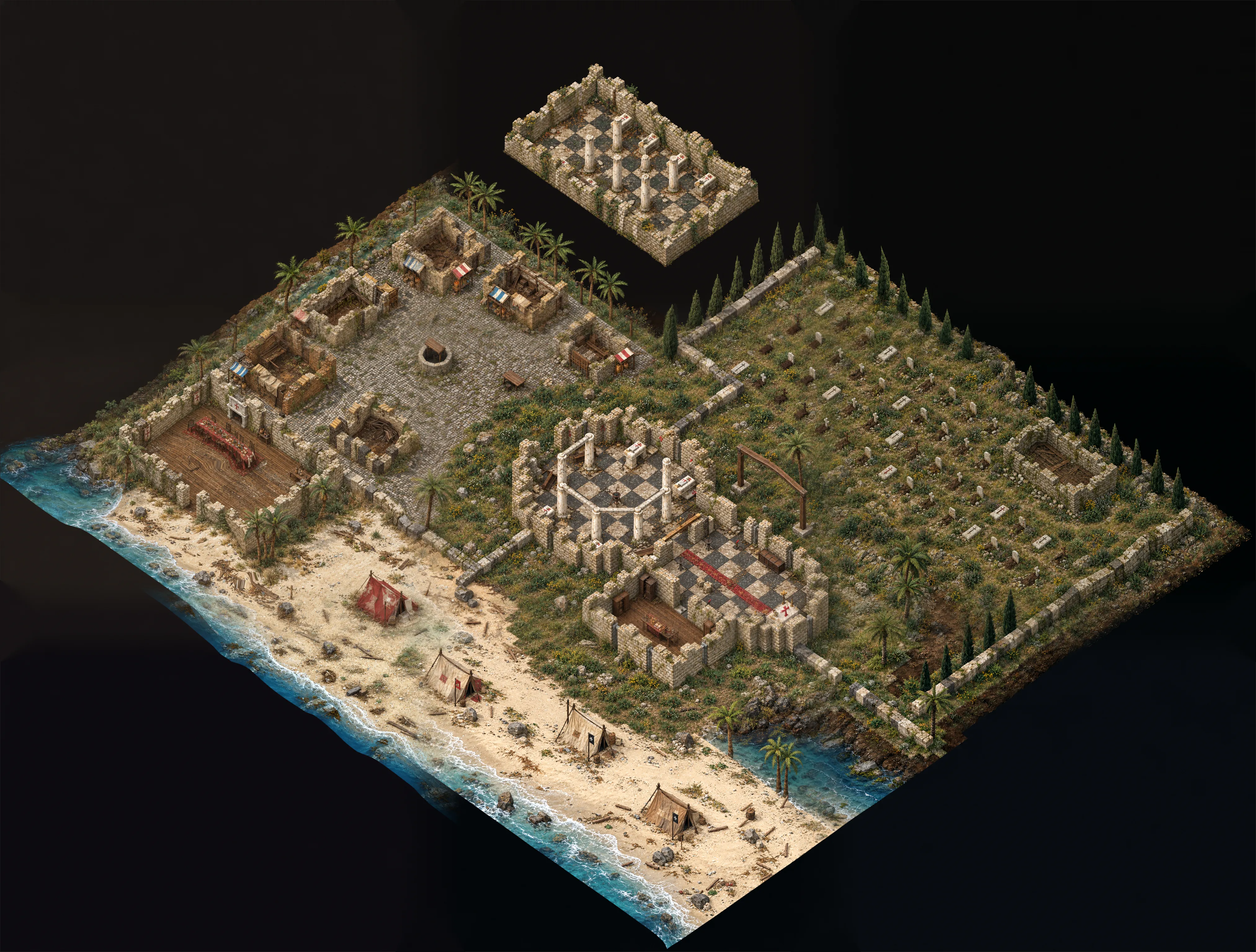
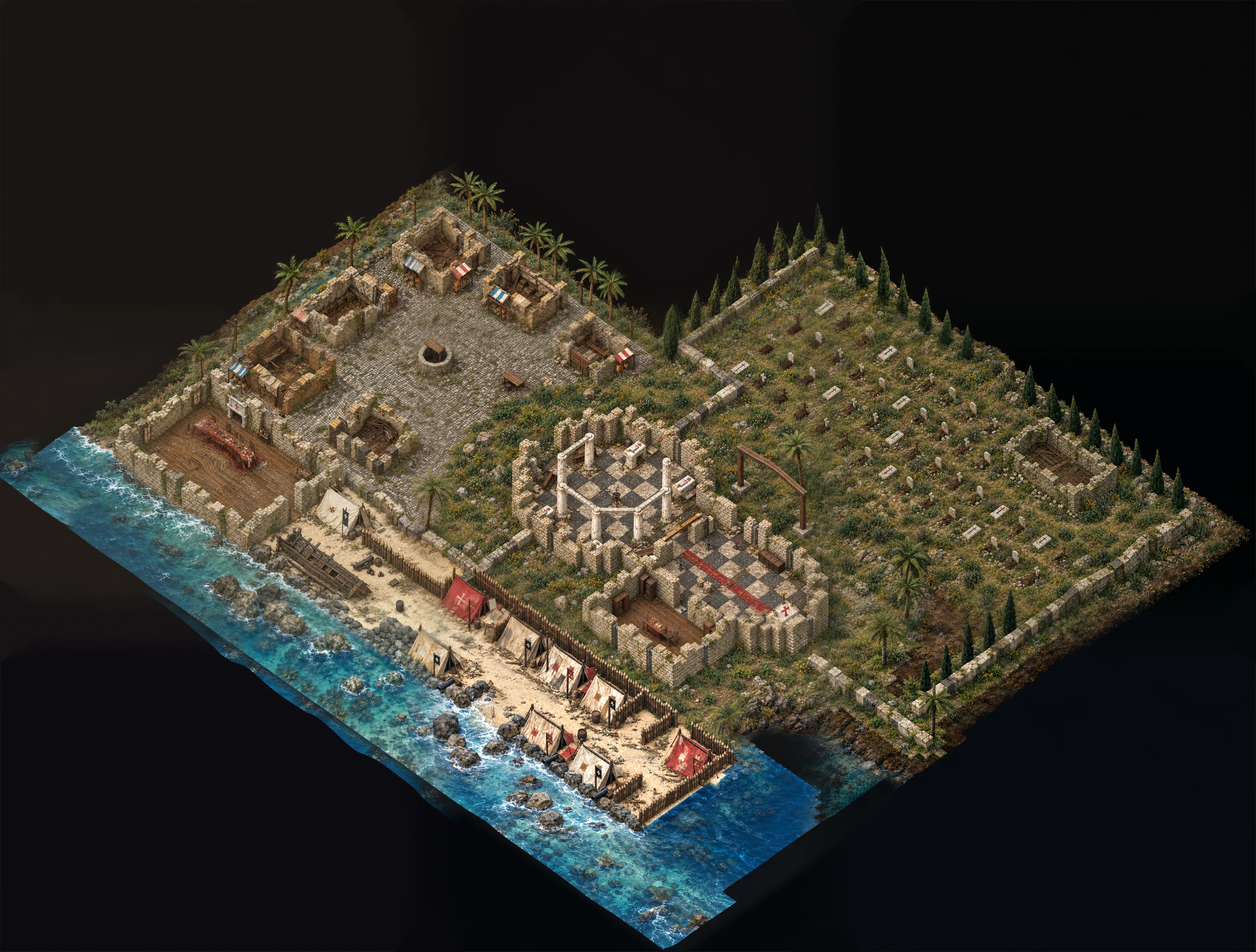
Templari: il dipinto dell'isola rifatto dopo spiaggia e catacombe (#426)

diff --git a/apps/client/src/templari/dipinto.ts b/apps/client/src/templari/dipinto.ts
@@ -43,11 +43,10 @@ const LUNA = new THREE.Vector3(-30, 50, -20).normalize(); // da dove viene la lu
 // luci con l'ombra: al massimo 24, un tassello dell'atlas ciascuna (8 × 3); le luci puntiformi della scena al massimo 24 (oltre: senza ombre)
 const MAX_LUCI = 24, MAX_PUNTI = 24, PX_OTT = LEGGERO ? 128 : 256, COL_ATLAS = 8, RIGHE_ATLAS = MAX_LUCI / COL_ATLAS;
 // pezzi che si muovono, spariscono o stanno fuori: restano coi loro colori
-/** Zone (x0, z0, x1, z1 in metri) dove l'isola è cambiata dopo il dipinto: lì restano i colori dei blocchi finché non lo si rifà. §12b punto 2
- *  (18 ott 2026): l'accampamento stretto, la riva sotto la taverna, il cancello del cimitero spostato; punto 3: la cripta, che era nell'angolo
- *  nord-ovest, ora sta nel piano di sotto. Il dipinto si rifà dopo il punto 3. */
-const DA_RIFARE: [number, number, number, number][] = [[24, 59, 95, 84], [6, 73.5, 24, 84], [72, 42.5, 83, 46], [0, 0, 30, 18]]; // e la cripta di prima (§12b punto 3: ora è sotto)
-const FUORI = new Set(['assi', 'campana', 'campana_a_terra', 'calice', 'nave', 'mare', 'bandiera_nera', 'aste', 'nebbia', 'rogo', 'fiamme_bracieri', 'fiammelle', 'stendardi']);
+/** Zone (x0, z0, x1, z1 in metri, al massimo 4) dove l'isola è cambiata dopo il dipinto: lì restano i colori dei blocchi finché non lo si rifà.
+ *  Vuota dal 19 ott 2026: il dipinto è rifatto dopo la spiaggia e le catacombe (§12b punti 2 e 3). */
+const DA_RIFARE: [number, number, number, number][] = [];
+const FUORI = new Set(['assi', 'campana', 'campana_a_terra', 'calice', 'nave', 'mare', 'bandiera_nera', 'aste', 'nebbia', 'rogo', 'fiamme_bracieri', 'fiammelle', 'stendardi', 'bocche_grate']);
 
 const PARS_V = /* glsl */ `
 varying vec3 vDpW;

diff --git a/docs/ROADMAP.md b/docs/ROADMAP.md
@@ -23,6 +23,8 @@ Onestà sui tagli: dei 4 tipi di minigioco entro dicembre ne entra **1 sicuro (R
 ## Deviazioni dal piano
 Se una scelta si rivela sbagliata sul campo, cambiarla è legittimo: **annotare qui data, cosa e perché**, così questo file resta la mappa del territorio reale.
 
+- *(19 ott 2026, birbasan, #426, passo 3 di #411)* **Templari: il dipinto dell'isola rifatto dopo spiaggia e catacombe** (`docs/TEMPLARI.md` §3b, §12b). Ridipinti con Codex solo i 6 tasselli su 9 dove l'isola è cambiata (accampamento stretto, riva, cancello del cimitero, la vecchia cripta sparita) e ricuciti solo dove la foto dei blocchi è diversa: il resto del dipinto è identico. `DA_RIFARE` in `templari/dipinto.ts` torna vuota; le bocche delle grate restano coi loro colori (`FUORI`). `dipinto_isola.webp` 1,23 → 1,12 MB, `dipinto_isola_m.webp` 0,43 → 0,40 MB. Nessuna dipendenza.
+
 - *(19 ott 2026, birbasan, #426, passo 3 di #411)* **Templari, secondo giro: le catacombe** (`docs/TEMPLARI.md` §12b punto 3, §9c). La mappa cresce in giù (84 → 145 righe; `TMappaDef.sopra` = 84, le righe del sopra): sotto la riva, oltre il mare, il **piano di sotto** con la cripta (spostata dall'angolo nord-ovest) e i tunnel (larghi 2 m, strettoie da 1 m, nicchie, 7 comparse nuove, la sala della fucina fredda). Si passa da sopra a sotto da tre scale: il muro della cripta e due **grate da 1250** (porte nuove `grata_ossario`, `grata_grotta` in `templari.json`, versione 8 → 9), una cella sopra e una sotto (`legenda.scala`): `Arena.passaggi`; flow field, scale di eroi e zombie e `raggiungibili` passano da tutte le scale aperte. Le anime per la Lancia contano solo nella sala della cripta (`Cripta.sala`). Nel client il pavimento di sotto e il mare si vedono solo da sotto e da sopra (`catacombe3d.ts`); il dipinto copre solo il sopra. Scelte di birbasan (19 ott): grata 1250, tunnel misti, anime solo nella cripta, grotta tra gli scogli. Misurato: dalla chiesa al Mercante 57 passi da sotto e 68 da sopra; 45-55 draw call nei tunnel. Nessuna dipendenza.
 
 - *(19 ott 2026, Riccardo, #438)* **La pala a Borgo Marea: buche, croci per passare oggetti tra giocatori e bottino giornaliero** (GDD §5, CONTRACTS §51, PROTOCOL §4). Riccardo: «in borgo marea, implementa la pala: si compra al negozio dei mobili e costa 500 monete. permette di fare buchi nel terreno (solo in borgo marea). in questi buchi si può seppellire qualsiasi oggetto posseduto dal personaggio: sarà il modo per passare oggetti da un player all'altro. si trova nello zaino del personaggio, in una nuova categoria "strumenti" e non pesano... ogni giorno, in un punto casuale di borgo marea spawna un "bottino" seppellito: una quantità casuale da 10 a 200 monete. sparisce solo per l'utente che la scava». Fatto: `pala` in `rpg/items.json` (`kind: 'strumento'`, `peso: 0`) e `borgo.json` (`monete: 500`, `bottino: [10, 200]`); tab `Strumenti` nello zaino; tabella SQLite `buche` nel DO `Sfide` coordinata col DO `Lot` (`GET /api/borgo/buche`, `POST /api/borgo/buca`, `POST /api/lot/casa/pala`); resa 3D delle buche aperte e delle croci stile Animal Crossing (`game/pala.ts`, caricato col chunk `negozio.ts`: JS iniziale invariato). Nessuna migrazione D1, nessuna dipendenza nuova.

diff --git a/docs/TEMPLARI.md b/docs/TEMPLARI.md
@@ -236,7 +236,7 @@ Dopo il recap di tutte le cose dell'isola, birbasan ha detto cosa tenere e cosa 
 - L'accampamento non è più una piazza aperta dove si gira in tondo: palizzate, tende, botti, cannoni, rocce e la nave in secca fanno **passaggi stretti e vicoli ciechi**; il bagnasciuga dove si va a correre si chiude con gli scogli. Si può ancora scappare, ma bisogna scegliere da che parte.
 - **Com'è fatto** **[scelta provvisoria, la forma]**: la spiaggia è una striscia di 56 × 14 m tra la taverna e una palizzata a est (prima 85 × 23, con la striscia lungo la riva fin sotto la taverna). Una **strada** larga 4 m va dalla **porta della taverna**, che ora è sul muro est e dà sull'accampamento (prima sul muro sud, sulla striscia), al **varco** nella palizzata nord, da cui arriva chi viene dal cimitero; il **cancello del cimitero** è accanto all'abside (6 m più a ovest di prima). Dalla strada partono a pettine i vicoli tra tende e palizzate, tutti ciechi: la tasca del **moschetto** dietro la prima tenda, quello del **trombone** tra due tende, quelli della cassa, dei cannoni e dei pezzi della campana. A sud la **nave in secca** (11 × 3 m, col ponte verso il mare) e la riva tutta di scogli tranne l'**approdo del Mercante**, davanti al **falò** in mezzo alla strada.
 - **Misurato** (passi da una cella all'altra, test `templari_spiaggia`): dalla porta della taverna al Mercante **40** (erano 48), dal cancello del cimitero **44** (erano 61), dalla porta nord della chiesa **71** (erano 94); lo spiazzo libero più grande sulla sabbia è di **5 × 5** m (era 11 × 11). Nella mappa `'|'` la palizzata e `'='` la nave: muri che fermano anche la vista (e i colpi).
-- **Il dipinto** (§3b) va rifatto quando l'isola cambia forma: si rifà **una volta sola**, dopo il punto 3 (le catacombe toccano la stessa zona; la cripta, che stava nell'angolo nord-ovest, è scesa nel piano di sotto). Gli script sono fuori dal repo, sul computer di birbasan. Fino ad allora sull'accampamento, sulla riva sotto la taverna e attorno al cancello del cimitero restano i colori dei blocchi (`DA_RIFARE` in `templari/dipinto.ts`).
+- **Il dipinto** (§3b) va rifatto quando l'isola cambia forma: si è rifatto **una volta sola**, dopo il punto 3 (19 ott 2026, #426): ridipinti solo i 6 tasselli dove l'isola è cambiata (accampamento, riva, cancello, la cripta che è scesa sotto) e ricuciti solo dove la foto dei blocchi è diversa; il resto è identico a prima. `DA_RIFARE` (`templari/dipinto.ts`) è vuota; le bocche delle grate restano coi loro colori. Gli script sono fuori dal repo, sul computer di birbasan.
 
 **3. Le catacombe** (fatto il 19 ott, issue #426; `templari.json` versione 9)
 - La cripta (§9c) diventa l'ingresso di un **piano sotto**: dal suo lato nord parte un **tunnel stretto** di pietra e ossa che si divide in due. Un ramo sbuca nell'**ossario del cimitero**, l'altro in una **grotta sotto l'accampamento**, a due passi dal Mercante: è la **scorciatoia per la spiaggia**.
